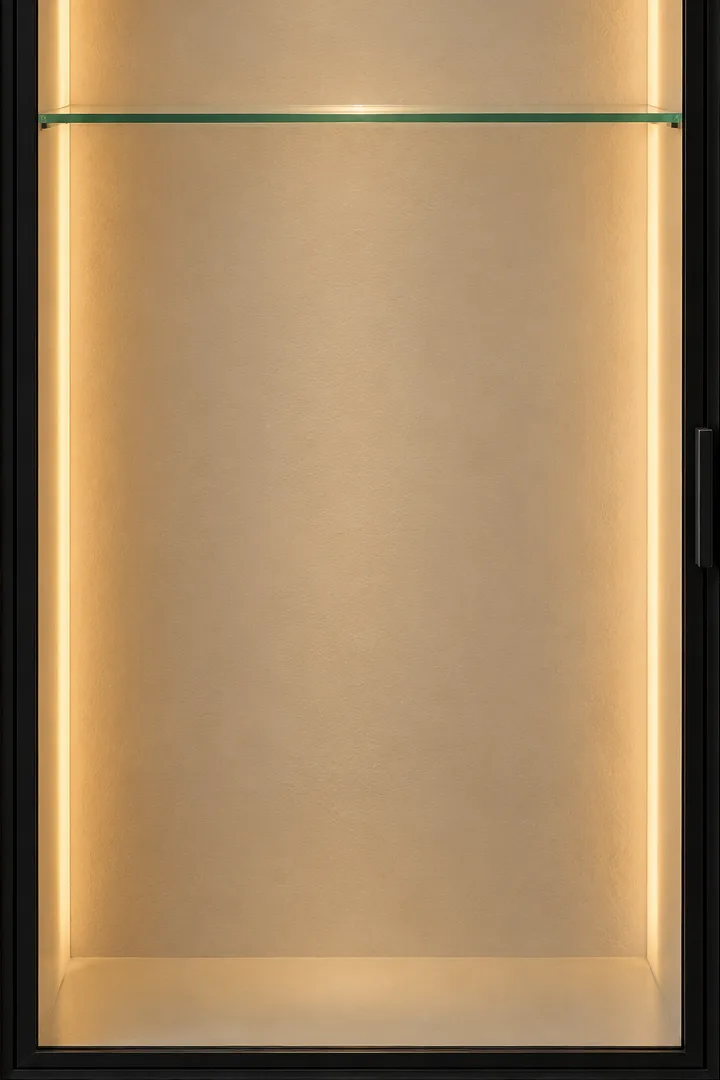
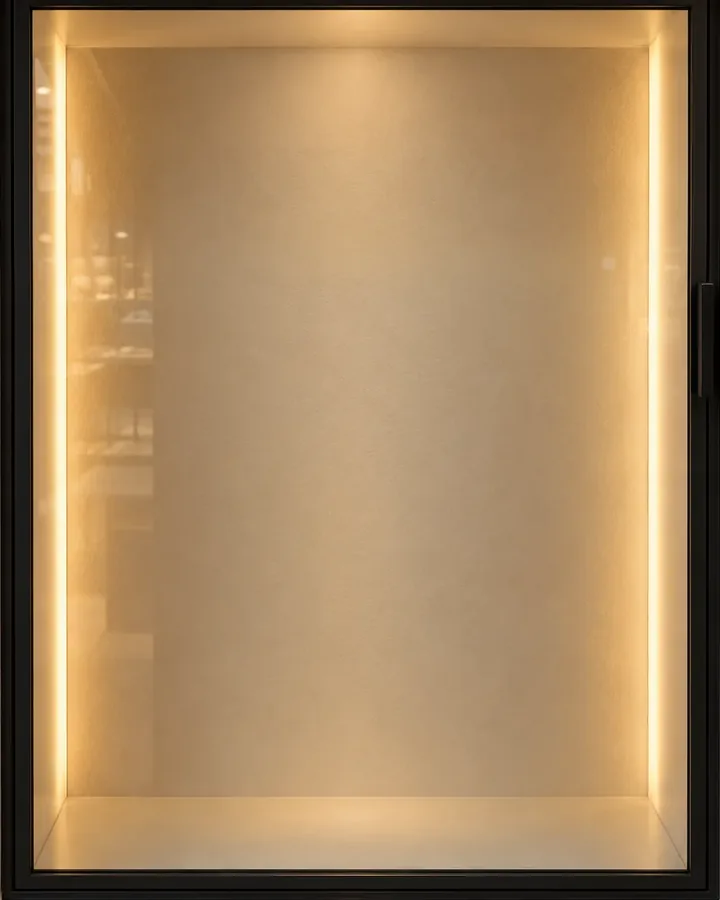
Vitrina de las fichas: marco entero arriba y más baja (4:5)
La foto de vitrina de las fichas venía recortada por arriba (se cortaba el
marco en seco) y en 2:3 dejaba mucho hueco sobre el frasco. Ahora sale de la
foto completa de la portada, acortada a 4:5 quitando la franja de la balda, y
las fichas, la página de cada fragancia y el móvil en horizontal pasan a 4:5.

Claude-Session: https://claude.ai/code/session_01AAfumfbgsWQN9hSRLtTVE9

Changed region(s): [[0.0, 0.0, 1.0, 0.9956], [0.1528, 0.3733, 0.1833, 0.4044]]

diff --git a/src/styles/sections/products.css b/src/styles/sections/products.css
@@ -8,14 +8,15 @@
 .product { display: flex; flex-direction: column; }
 .product.is-hidden { display: none; }
 .product__link { display: block; text-decoration: none; color: inherit; }
-.product__media { position: relative; isolation: isolate; margin: 0; aspect-ratio: 2 / 3; overflow: hidden; background: #121110; }
+.product__media { position: relative; isolation: isolate; margin: 0; aspect-ratio: 4 / 5; overflow: hidden; background: #121110; }
 .product__media::before {
   content: ""; position: absolute; inset: 0; z-index: -1;
-  background: image-set(url("/img/vitrina/vitrina-480.webp") 1x, url("/img/vitrina/vitrina-720.webp") 2x) center / cover no-repeat;
+  background: image-set(url("/img/vitrina/vitrina-480.webp") 1x, url("/img/vitrina/vitrina-912.webp") 2x) center / cover no-repeat;
   filter: brightness(.93); transition: filter .8s var(--ease);
 }
 .product:hover .product__media::before, .product__media.is-on::before { filter: brightness(1.04); }
-/* El frasco apoya en el suelo de la hornacina (93 % de la altura de la foto).
+/* La foto de vitrina (4:5) es la de la portada acortada: se ve el marco entero, también arriba,
+   y no sobra hueco encima del frasco. El frasco apoya en el suelo de la hornacina (93,5 % de la altura de la foto).
    Las fotos de producto son 4:5 con la base del frasco al 93,5 %: con un 68 % de ancho, bottom 3,2 %. */
 .product__media img { position: absolute; left: 14%; bottom: 1.9%; width: 72%; height: auto; transition: transform .8s var(--ease), opacity .8s var(--ease); }
 

diff --git a/src/styles/pages/pdp.css b/src/styles/pages/pdp.css
@@ -2,7 +2,7 @@
 .pdp__crumbs { padding-block: 1.4rem 1rem; }
 .pdp { display: grid; gap: 2rem; padding-bottom: var(--section); }
 /* El frasco en su vitrina, a tamaño grande y con la luz encendida */
-.pdp__media .product__media::before { filter: brightness(1.02); background-image: image-set(url("/img/vitrina/vitrina-720.webp") 1x); }
+.pdp__media .product__media::before { filter: brightness(1.02); background-image: image-set(url("/img/vitrina/vitrina-720.webp") 1x, url("/img/vitrina/vitrina-912.webp") 2x); }
 .pdp__media .product__media--drawn { padding: 12% 18% 9%; }
 .pdp__media .bottle__label em { font-size: clamp(1.3rem, 1rem + 1vw, 1.8rem); }
 .pdp__media .bottle__label span { font-size: .72rem; }
@@ -87,5 +87,5 @@ body:has(.buybar) { padding-bottom: calc(68px + env(safe-area-inset-bottom)); }
   body:has(.buybar) { padding-bottom: 0; }
 }
 @media (min-width: 960px) {
-  .pdp__media .product__media { max-width: calc((100svh - var(--header-h) - 48px) * 2 / 3); margin-inline: auto; }
+  .pdp__media .product__media { max-width: calc((100svh - var(--header-h) - 48px) * 4 / 5); margin-inline: auto; }
 }

diff --git a/src/styles/base/landscape-pages.css b/src/styles/base/landscape-pages.css
@@ -6,7 +6,7 @@
   /* Ficha de fragancia: frasco a la izquierda (fijo) y compra a la derecha */
   .pdp { grid-template-columns: minmax(0, .8fr) minmax(0, 1.2fr); gap: 1.6rem; align-items: start; }
   .pdp__media { position: sticky; top: calc(var(--header-h) + 12px); }
-  .pdp__media .product__media { margin: 0; height: calc(var(--avail) - 24px); width: auto; aspect-ratio: 2 / 3; }
+  .pdp__media .product__media { margin: 0; height: calc(var(--avail) - 24px); width: auto; aspect-ratio: 4 / 5; }
   .buybar { display: none; }
   body:has(.buybar) { padding-bottom: 0; }
 
